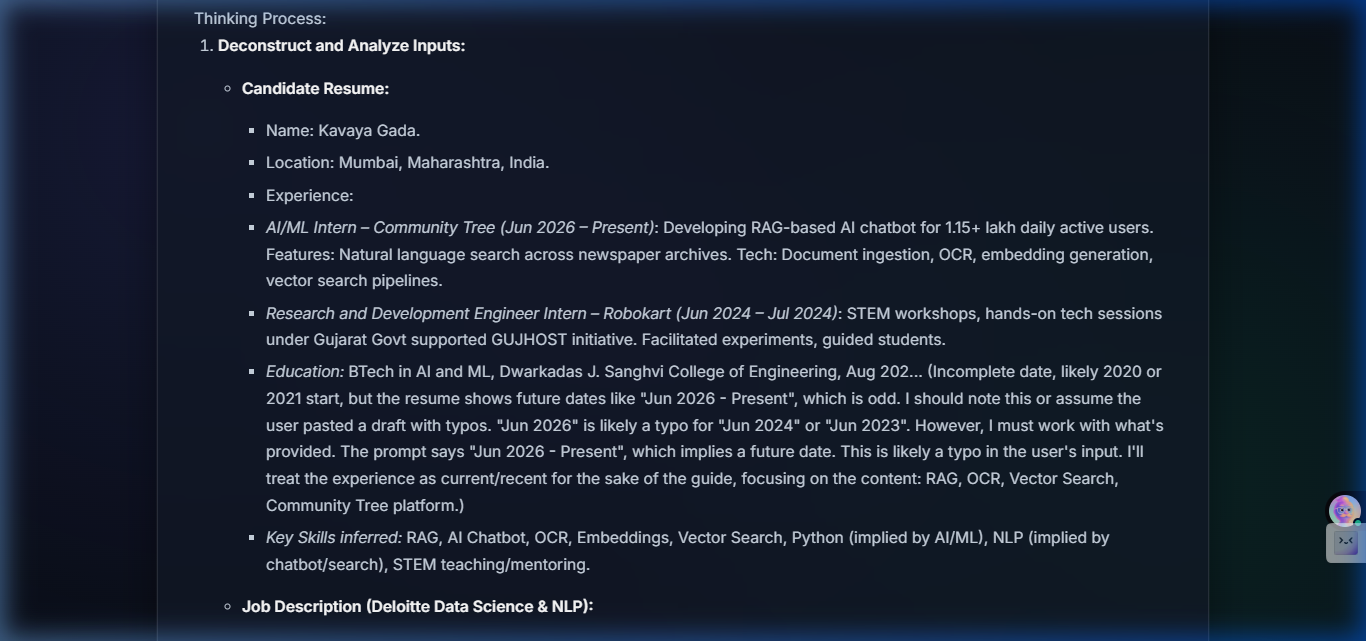
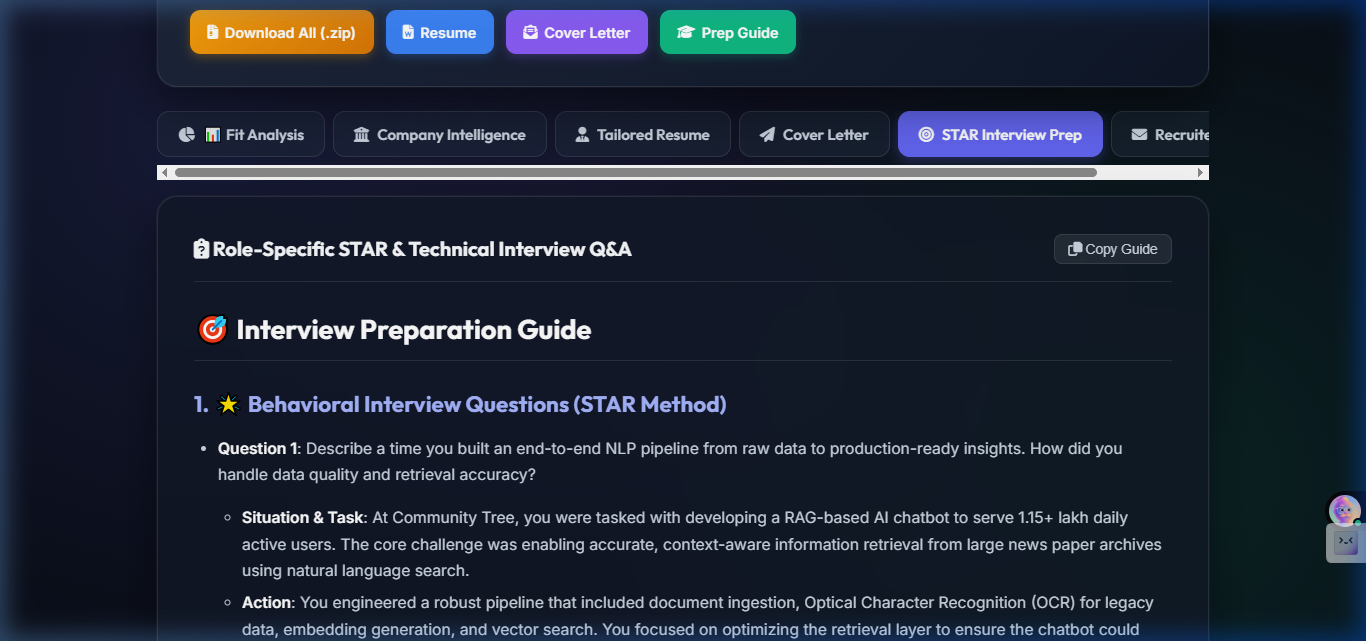
Strip raw LLM thinking process blocks and update clean STAR interview prep screenshot and demo video

diff --git a/tools/groq_helper.py b/tools/groq_helper.py
@@ -80,6 +80,18 @@ def map_error_to_friendly_exception(e):
         hint="Please verify your input files and try again."
     )
 
+def clean_thinking_process(text):
+    if not text:
+        return ""
+    text = re.sub(r'<think>.*?</think>', '', text, flags=re.DOTALL)
+    if re.match(r'^\s*(?:Thinking Process|Thinking|Reasoning):', text, re.IGNORECASE):
+        match = re.search(r'(\n#|\n\*\*|\n---|\n[1-9]\.\s+\*\*)', text)
+        if match:
+            text = text[match.start():]
+        else:
+            text = re.sub(r'^\s*(?:Thinking Process|Thinking|Reasoning):.*?\n\n', '', text, flags=re.DOTALL | re.IGNORECASE)
+    return text.strip()
+
 def call_groq_completion(messages, model=None, response_format=None, max_retries=3, temperature=0.7, max_tokens=1500):
     """Call Groq API with automatic retry backoff, fallback models, and friendly exception mapping."""
     try:
@@ -107,7 +119,7 @@ def call_groq_completion(messages, model=None, response_format=None, max_retries
                 content = completion.choices[0].message.content
                 if not content or not content.strip():
                     raise ValueError(f"Received empty response from model {current_model}")
-                return content
+                return clean_thinking_process(content)
             except Exception as e:
                 last_error = e
                 err_str = str(e)
